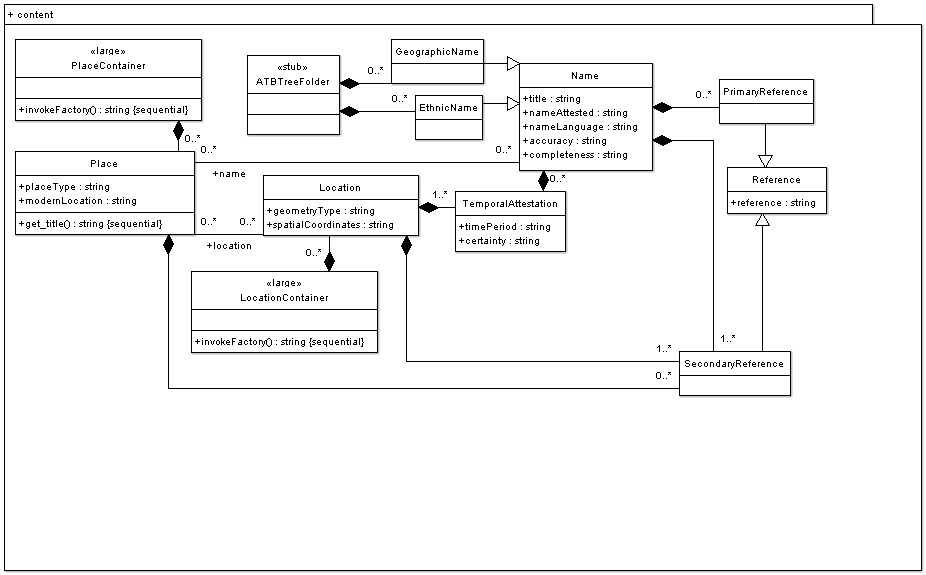
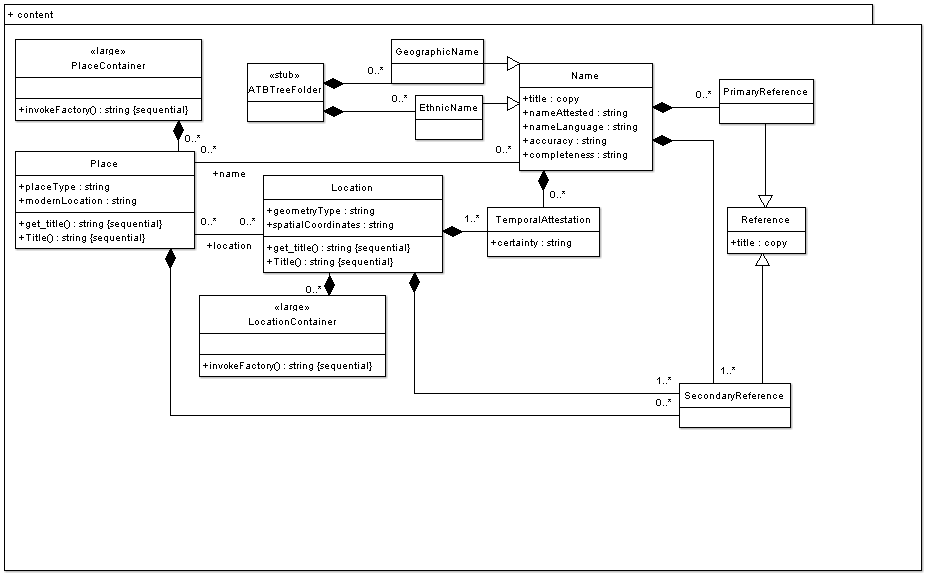
Modified references, eliminating separate reference attribute and just reusing title, copied from BaseSchema.

diff --git a/__init__.py b/__init__.py
@@ -1,37 +1,29 @@
-# ===========================================================================
+# -*- coding: utf-8 -*-
+#
+# File: PleiadesEntity.py
+#
 # Copyright (c) 2007 by Ancient World Mapping Center, University of North
 # Carolina at Chapel Hill, U.S.A.
-#
 # Generator: ArchGenXML Version 1.5.0
 #            http://plone.org/products/archgenxml
 #
 # GNU General Public License (GPL)
 #
-# This program is free software; you can redistribute it and/or modify
-# it under the terms of the GNU General Public License as published by
-# the Free Software Foundation; either version 2 of the License, or
-# (at your option) any later version.
+# This program is free software; you can redistribute it and/or
+# modify it under the terms of the GNU General Public License
+# as published by the Free Software Foundation; either version 2
+# of the License, or (at your option) any later version.
 #
 # This program is distributed in the hope that it will be useful,
 # but WITHOUT ANY WARRANTY; without even the implied warranty of
-# MERCHANTABILITY or FITNESS FOR A PARTICULAR PURPOSE.  See the
+# MERCHANTABILITY or FITNESS FOR A PARTICULAR PURPOSE. See the
 # GNU General Public License for more details.
 #
-# You should have received a copy of the GNU General Public License along
-# with this program; if not, write to the Free Software Foundation, Inc.,
-# 51 Franklin Street, Fifth Floor, Boston, MA 02110-1301 USA.
+# You should have received a copy of the GNU General Public License
+# along with this program; if not, write to the Free Software
+# Foundation, Inc., 51 Franklin Street, Fifth Floor, Boston, MA
+# 02110-1301, USA.
 #
-# About Pleiades
-# --------------
-#
-# Pleiades is an international research network and associated web portal and
-# content management system devoted to the study of ancient geography. 
-#
-# See http://icon.stoa.org/trac/pleiades/wiki.
-#
-# Funding for the creation of this software was provided by a grant from the 
-# U.S. National Endowment for the Humanities (http://www.neh.gov).
-# ===========================================================================
 
 __author__ = """Sean Gillies <unknown>, Tom Elliott <unknown>"""
 __docformat__ = 'plaintext'

diff --git a/config.py b/config.py
@@ -1,37 +1,29 @@
-# ===========================================================================
+# -*- coding: utf-8 -*-
+#
+# File: PleiadesEntity.py
+#
 # Copyright (c) 2007 by Ancient World Mapping Center, University of North
 # Carolina at Chapel Hill, U.S.A.
-#
 # Generator: ArchGenXML Version 1.5.0
 #            http://plone.org/products/archgenxml
 #
 # GNU General Public License (GPL)
 #
-# This program is free software; you can redistribute it and/or modify
-# it under the terms of the GNU General Public License as published by
-# the Free Software Foundation; either version 2 of the License, or
-# (at your option) any later version.
+# This program is free software; you can redistribute it and/or
+# modify it under the terms of the GNU General Public License
+# as published by the Free Software Foundation; either version 2
+# of the License, or (at your option) any later version.
 #
 # This program is distributed in the hope that it will be useful,
 # but WITHOUT ANY WARRANTY; without even the implied warranty of
-# MERCHANTABILITY or FITNESS FOR A PARTICULAR PURPOSE.  See the
+# MERCHANTABILITY or FITNESS FOR A PARTICULAR PURPOSE. See the
 # GNU General Public License for more details.
 #
-# You should have received a copy of the GNU General Public License along
-# with this program; if not, write to the Free Software Foundation, Inc.,
-# 51 Franklin Street, Fifth Floor, Boston, MA 02110-1301 USA.
+# You should have received a copy of the GNU General Public License
+# along with this program; if not, write to the Free Software
+# Foundation, Inc., 51 Franklin Street, Fifth Floor, Boston, MA
+# 02110-1301, USA.
 #
-# About Pleiades
-# --------------
-#
-# Pleiades is an international research network and associated web portal and
-# content management system devoted to the study of ancient geography. 
-#
-# See http://icon.stoa.org/trac/pleiades/wiki.
-#
-# Funding for the creation of this software was provided by a grant from the 
-# U.S. National Endowment for the Humanities (http://www.neh.gov).
-# ===========================================================================
 
 __author__ = """Sean Gillies <unknown>, Tom Elliott <unknown>"""
 __docformat__ = 'plaintext'

diff --git a/content/Reference.py b/content/Reference.py
@@ -35,18 +35,13 @@ from Products.PleiadesEntity.config import *
 ##code-section module-header #fill in your manual code here
 ##/code-section module-header
 
+copied_fields = {}
+copied_fields['title'] = BaseSchema['title'].copy()
+copied_fields['title'].widget.label = "Citation"
 schema = Schema((
 
-    StringField(
-        name='reference',
-        widget=StringWidget(
-            label='Reference',
-            label_msgid='PleiadesEntity_label_reference',
-            i18n_domain='PleiadesEntity',
-        )
+    copied_fields['title'],
     ),
-
-),
 )
 
 ##code-section after-local-schema #fill in your manual code here
@@ -87,6 +82,7 @@ class Reference(BaseContent):
     ##/code-section class-header
 
     # Methods
+
 
 registerType(Reference, PROJECTNAME)
 # end of class Reference

diff --git a/content/LocationContainer.py b/content/LocationContainer.py
@@ -98,6 +98,7 @@ class LocationContainer(BaseBTreeFolder):
         self._v_nextid += 1
         return new_id
 
+
 registerType(LocationContainer, PROJECTNAME)
 # end of class LocationContainer
 

diff --git a/content/PlaceContainer.py b/content/PlaceContainer.py
@@ -97,6 +97,7 @@ class PlaceContainer(BaseBTreeFolder):
         self._v_nextid += 1
         return new_id
 
+
 registerType(PlaceContainer, PROJECTNAME)
 # end of class PlaceContainer
 

diff --git a/content/SecondaryReference.py b/content/SecondaryReference.py
@@ -81,6 +81,7 @@ class SecondaryReference(Reference, BaseContent):
 
     # Methods
 
+
 registerType(SecondaryReference, PROJECTNAME)
 # end of class SecondaryReference
 

diff --git a/content/PrimaryReference.py b/content/PrimaryReference.py
@@ -81,6 +81,7 @@ class PrimaryReference(Reference, BaseContent):
 
     # Methods
 
+
 registerType(PrimaryReference, PROJECTNAME)
 # end of class PrimaryReference
 

diff --git a/content/TemporalAttestation.py b/content/TemporalAttestation.py
@@ -92,6 +92,7 @@ class TemporalAttestation(BaseContent):
 
     # Methods
 
+
 registerType(TemporalAttestation, PROJECTNAME)
 # end of class TemporalAttestation
 

diff --git a/content/Location.py b/content/Location.py
@@ -121,6 +121,7 @@ class Location(BaseFolder):
         """
         return self.get_title()
 
+
 registerType(Location, PROJECTNAME)
 # end of class Location
 

diff --git a/content/GeographicName.py b/content/GeographicName.py
@@ -81,6 +81,7 @@ class GeographicName(Name, BaseFolder):
 
     # Methods
 
+
 registerType(GeographicName, PROJECTNAME)
 # end of class GeographicName
 

diff --git a/content/Place.py b/content/Place.py
@@ -148,6 +148,7 @@ class Place(BaseFolder):
         """
         return self.get_title()
 
+
 registerType(Place, PROJECTNAME)
 # end of class Place
 

diff --git a/content/EthnicName.py b/content/EthnicName.py
@@ -81,6 +81,7 @@ class EthnicName(Name, BaseFolder):
 
     # Methods
 
+
 registerType(EthnicName, PROJECTNAME)
 # end of class EthnicName
 
